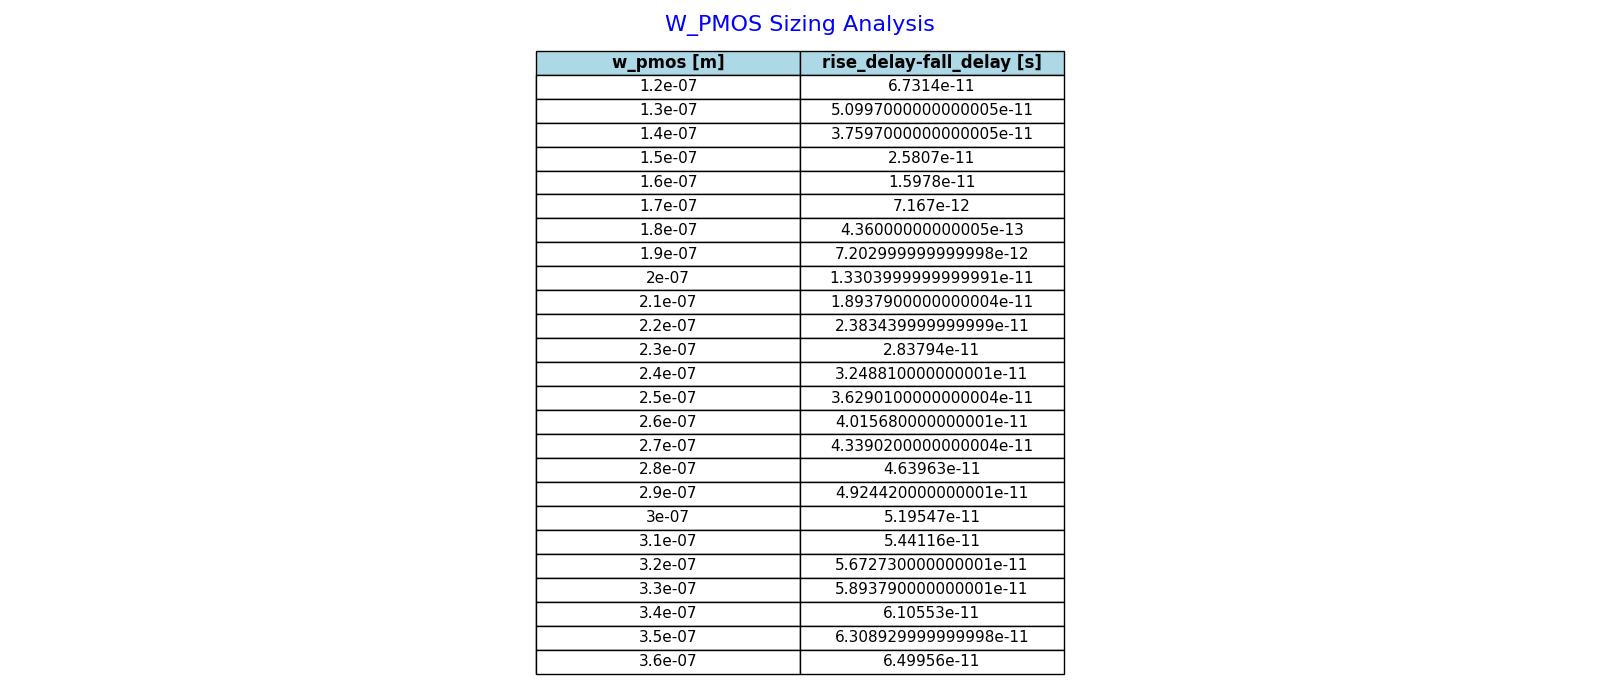
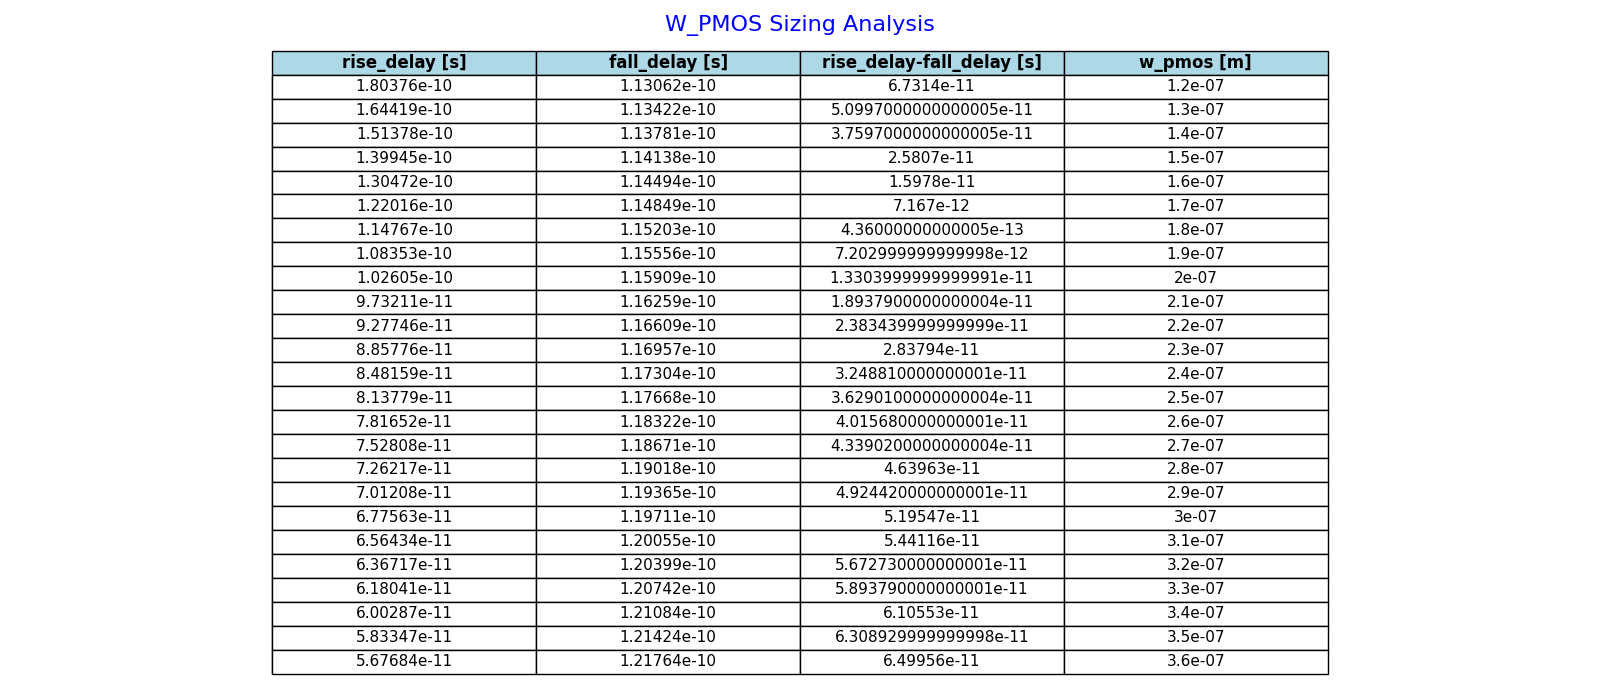
sizing minimum inverter aggiornato

Changed region(s): [[0.1562, 0.06, 0.3438, 0.99], [0.6562, 0.06, 0.8438, 0.99], [0.375, 0.06, 0.4688, 0.96]]

diff --git a/python/buffer-analysis/minimum_inverter_sizing_analysis.py b/python/buffer-analysis/minimum_inverter_sizing_analysis.py
@@ -99,12 +99,17 @@ def minimum_inverter_sizing_analysis():
     diff_delay = [
         abs(rise_delay - fall_delay)
         for rise_delay, fall_delay in
-        zip(rise_delay_minimum_inverter_sizing_analysis, fall_delay_minimum_inverter_sizing_analysis)
+        zip(
+            rise_delay_minimum_inverter_sizing_analysis,
+            fall_delay_minimum_inverter_sizing_analysis
+        )
     ]
 
     data_table_w_pmos = {
-        'w_pmos [m]': w_min_pmos_analysis,
-        'rise_delay-fall_delay [s]': diff_delay
+        'rise_delay [s]': rise_delay_minimum_inverter_sizing_analysis,
+        'fall_delay [s]': fall_delay_minimum_inverter_sizing_analysis,
+        'rise_delay-fall_delay [s]': diff_delay,
+        'w_pmos [m]': w_min_pmos_analysis
     }
     table_creation(
         data_table=data_table_w_pmos,
